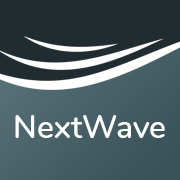
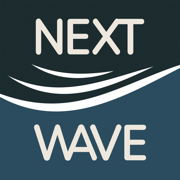
Bring home hero refinements to the live marketing site
Mobile hero: smaller logo, tighter spacing to the header, more room
between the tagline and the description copy, and CTAs sitting close to
the wave divider. Also darkens the hero photo overlay and adds the
1024px PWA icon.

diff --git a/index.html b/index.html
@@ -81,7 +81,7 @@
 <main>
 
   <!-- HERO SPLASH -->
-  <section class="hero-splash" style="background-image:url('assets/img/Home_FrontDesk.png'), linear-gradient(180deg, rgba(43,76,94,0.55) 0%, rgba(35,60,68,0.7) 45%, rgba(15,22,24,1) 100%); background-repeat:no-repeat, no-repeat; background-position:center, center; background-size:auto 100%, cover;">
+  <section class="hero-splash" style="background-image:url('assets/img/Home_FrontDesk.png'), linear-gradient(180deg, rgba(43,76,94,0.8) 0%, rgba(35,60,68,0.9) 45%, rgba(15,22,24,1) 100%); background-repeat:no-repeat, no-repeat; background-position:center, center; background-size:auto 100%, cover;">
     <div class="container hero-splash-inner">
       <img class="logo-mark" src="assets/img/logo-offset-white.png" alt="NextWave Wellness" width="665" height="264">
       <span class="hero-tagline">Prevent.<br>Restore.<br>Optimize.</span>

diff --git a/assets/style.css b/assets/style.css
@@ -463,7 +463,10 @@ a.nav-cta-mobile { display: none; }
   filter: drop-shadow(0 1px 20px rgba(0,0,0,0.2));
 }
 @media (max-width: 600px) {
-  .hero-splash .logo-mark { max-height: 110px; }
+  .hero-splash-inner { padding-top: 20px; padding-bottom: 20px; }
+  .hero-splash .logo-mark { max-height: 88px; margin-bottom: 24px; }
+  .hero-splash .hero-sub { margin-top: 320px; }
+  .hero-splash .hero-actions { margin-top: 20px; }
 }
 .hero-splash .eyebrow { color: var(--brass); justify-content: center; }
 .hero-splash .eyebrow::before { background: var(--brass); }
